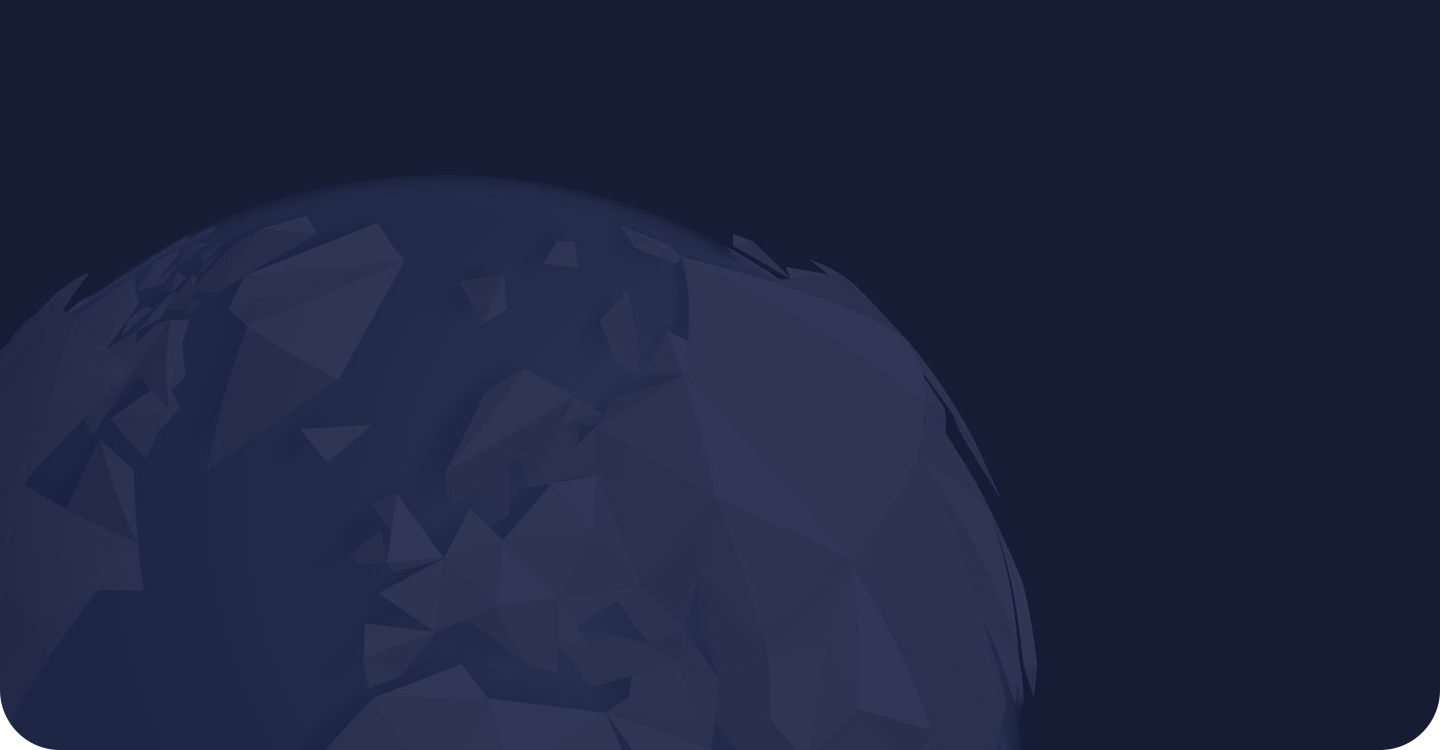
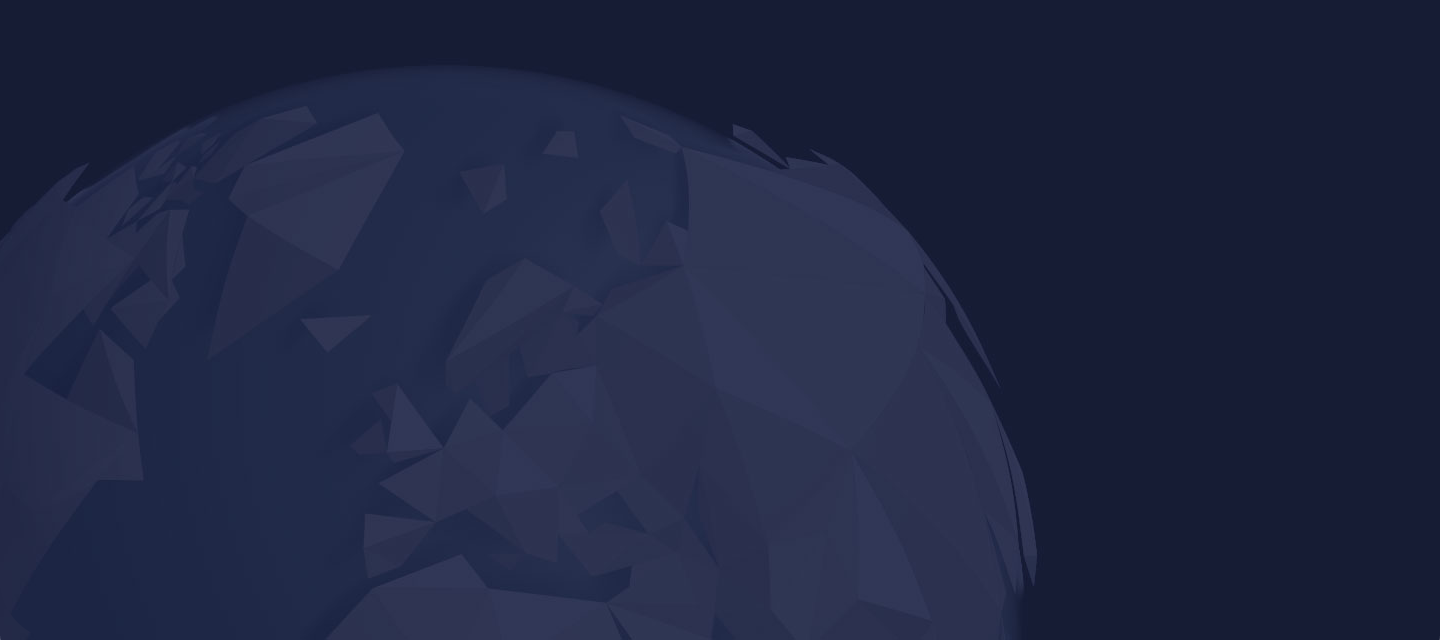
feat(intro): добавит стили для tablet

diff --git a/source/sass/blocks/intro.scss b/source/sass/blocks/intro.scss
@@ -1,12 +1,29 @@
 .intro {
+  display: grid;
+  grid-template-columns: 1fr;
+  grid-template-areas: "intro";
   min-width: 320px;
   background-color: $color-midnight-express;
-  background-image: url("../img/content/intro-bg.png");
-  background-repeat: no-repeat;
-  background-position: center bottom;
-  background-size: cover;
+
+  @include vp-1279 {
+    padding-bottom: 140px;
+  }
+
+  &__background {
+    grid-area: intro;
+    max-width: 1440px;
+    overflow: hidden;
+
+    img {
+      width: 100%;
+      height: 100%;
+      object-fit: cover;
+      object-position: center bottom;
+    }
+  }
 
   .container {
+    grid-area: intro;
     display: grid;
     grid-template-columns: 1fr auto minmax(auto, 310px);
     grid-template-areas:
@@ -14,6 +31,15 @@
       ".       i-img  .      ";
     align-items: start;
     column-gap: 36px;
+
+    @include vp-1279 {
+      grid-template-columns: 1fr;
+      grid-template-areas:
+        "i-title i-title"
+        "i-quote i-img  "
+        "i-steps i-img  ";
+      gap: 0;
+    }
   }
 
   &__title {
@@ -21,10 +47,19 @@
     margin-top: 72px;
     padding: 24px;
     padding-left: 68px;
+
+    @include vp-1279 {
+      justify-self: center;
+      max-width: 96%;
+      margin-top: 26px;
+      padding: 0;
+      text-align: center;
+    }
   }
 
   &__image {
     grid-area: i-img;
+    align-self: end;
     aspect-ratio: 430 / 640;
     overflow: hidden;
 
@@ -32,6 +67,10 @@
       width: 100%;
       height: 100%;
       object-fit: cover;
+    }
+
+    @include vp-1279 {
+      margin-top: 36px;
     }
   }
 
@@ -54,10 +93,26 @@
       line-height: calc($line-height-24 / $font-size-21);
       font-weight: $font-weight-bold;
     }
+
+    @include vp-1279 {
+      grid-column: 1 / -1;
+      max-width: 50%;
+      margin-top: 92px;
+      padding: 0 32px;
+    }
   }
 
   &__steps {
     grid-column: 1 / -1;
     grid-row: 2 / 3;
+    margin-top: -38px;
+
+    @include vp-1279 {
+      grid-area: i-steps;
+      grid-column: 1 / -1;
+      align-self: end;
+      margin: 0;
+      margin-bottom: -96px;
+    }
   }
 }
